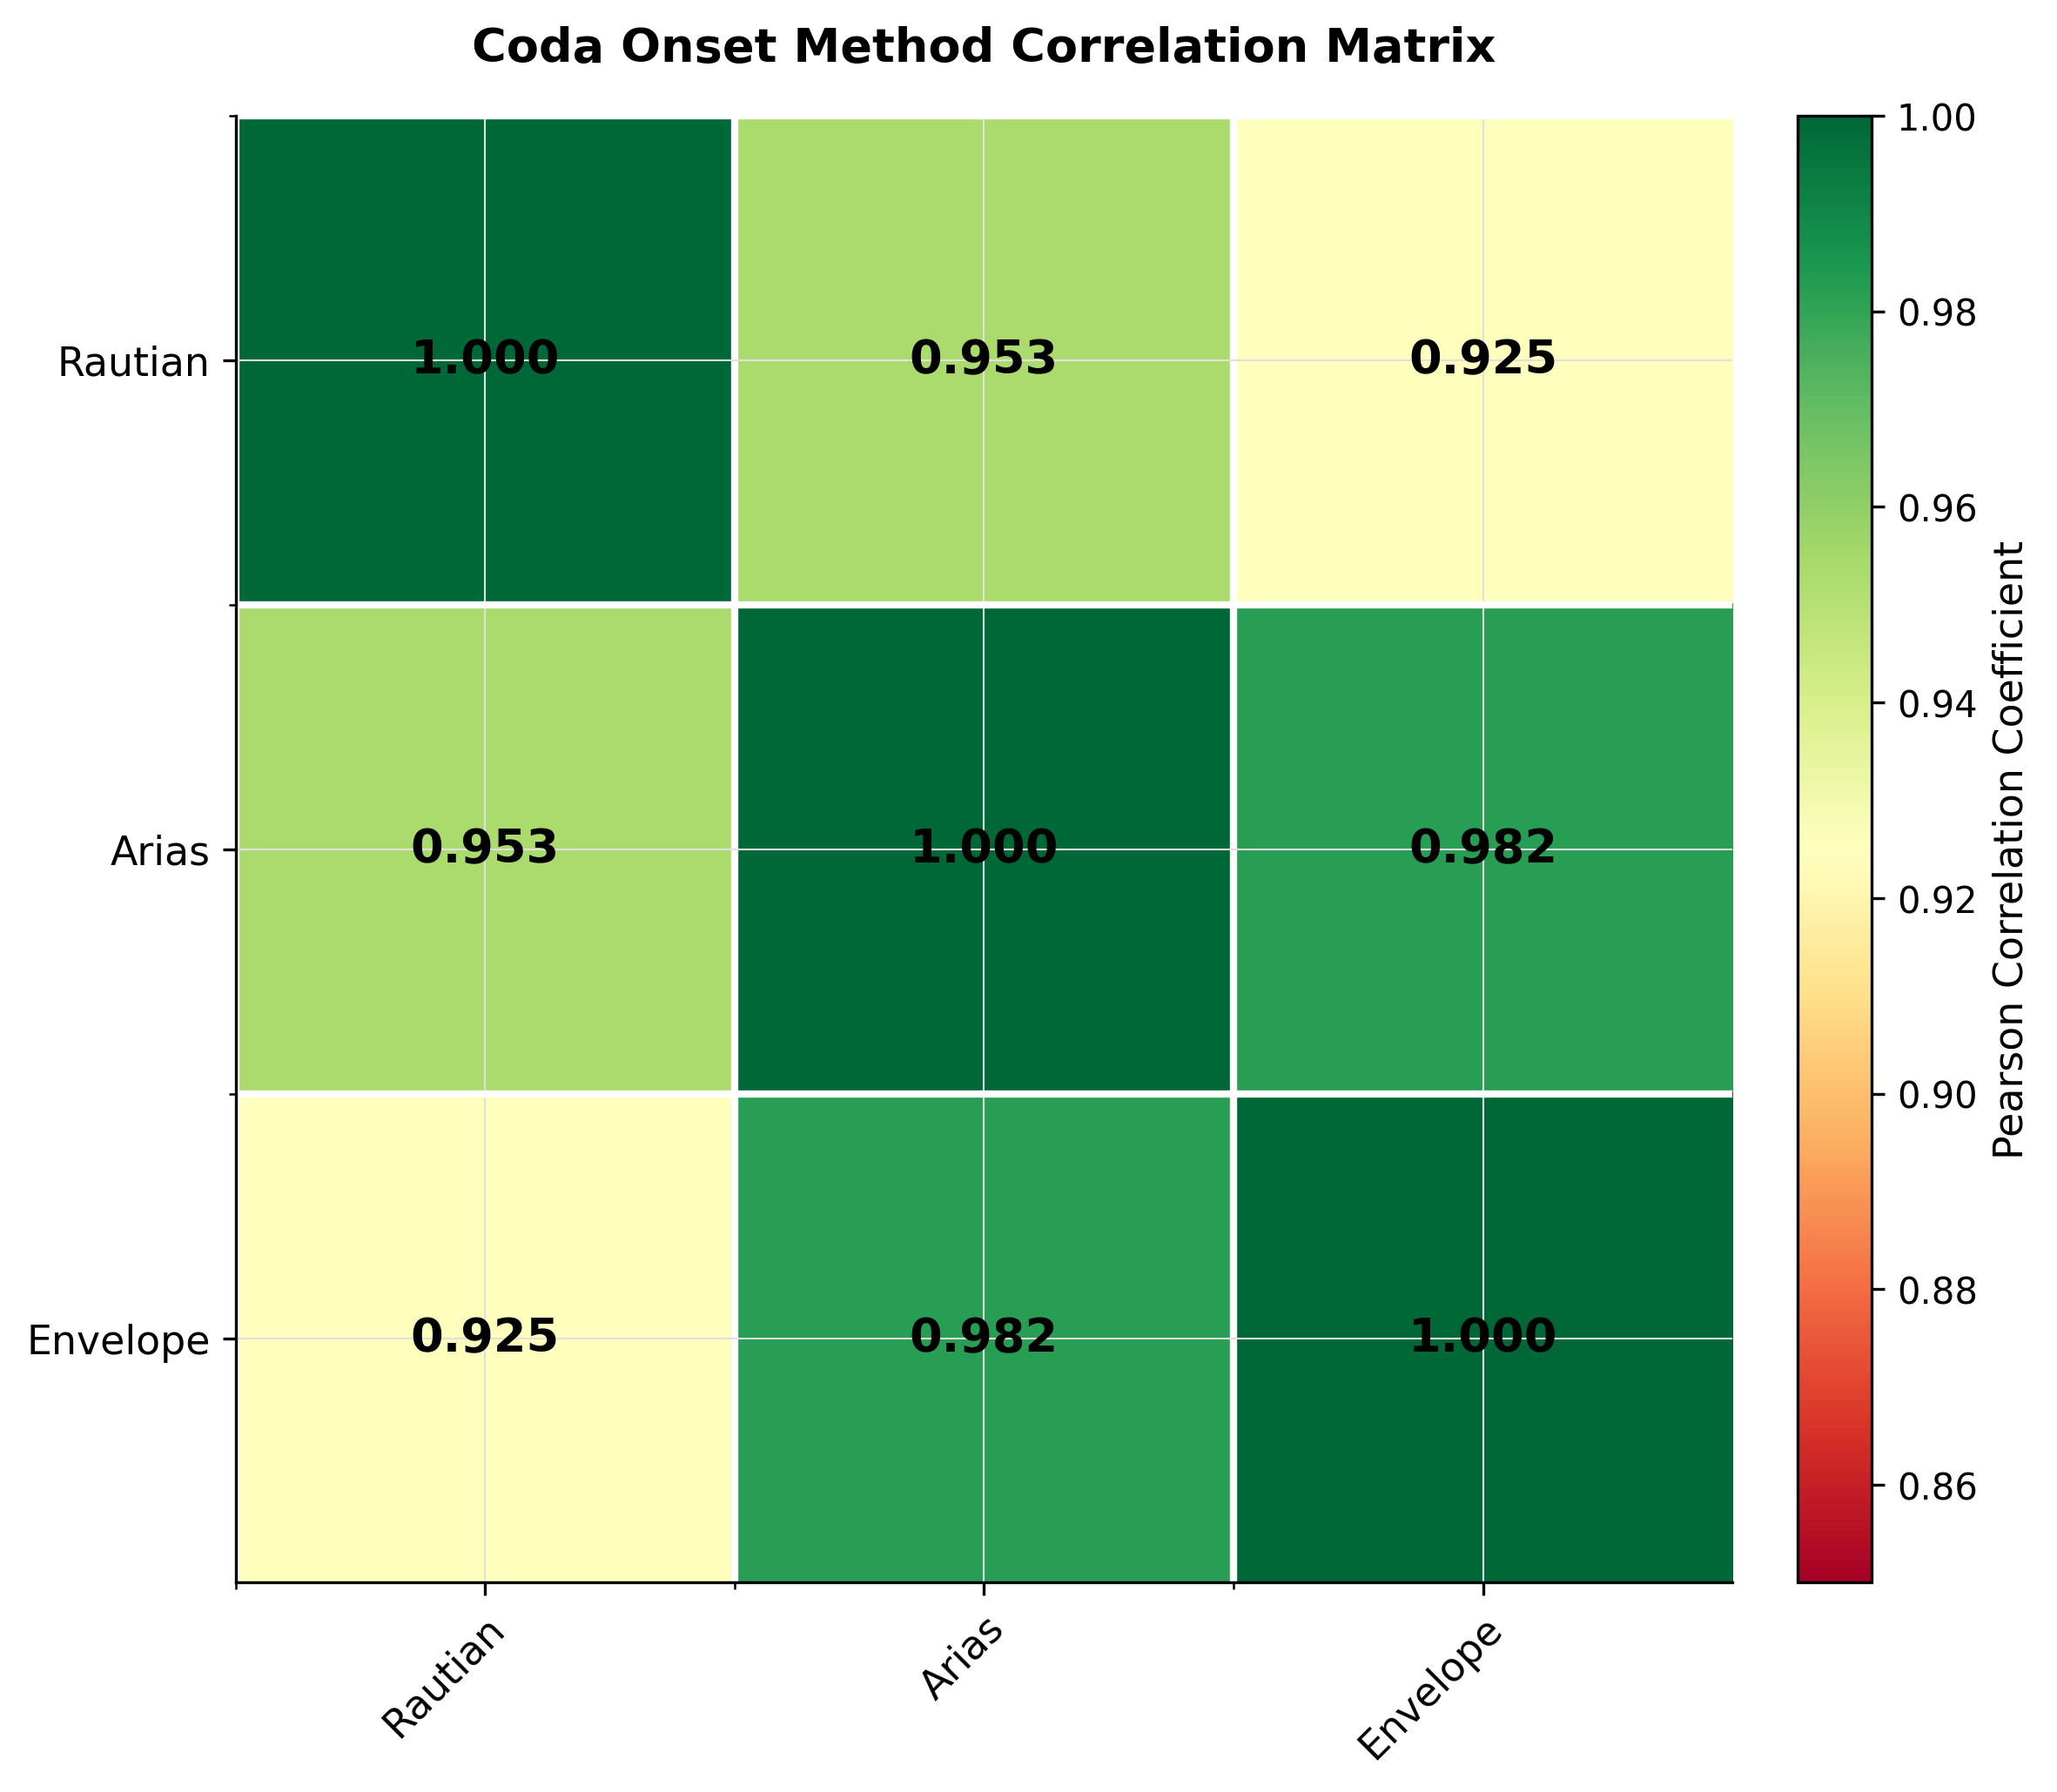
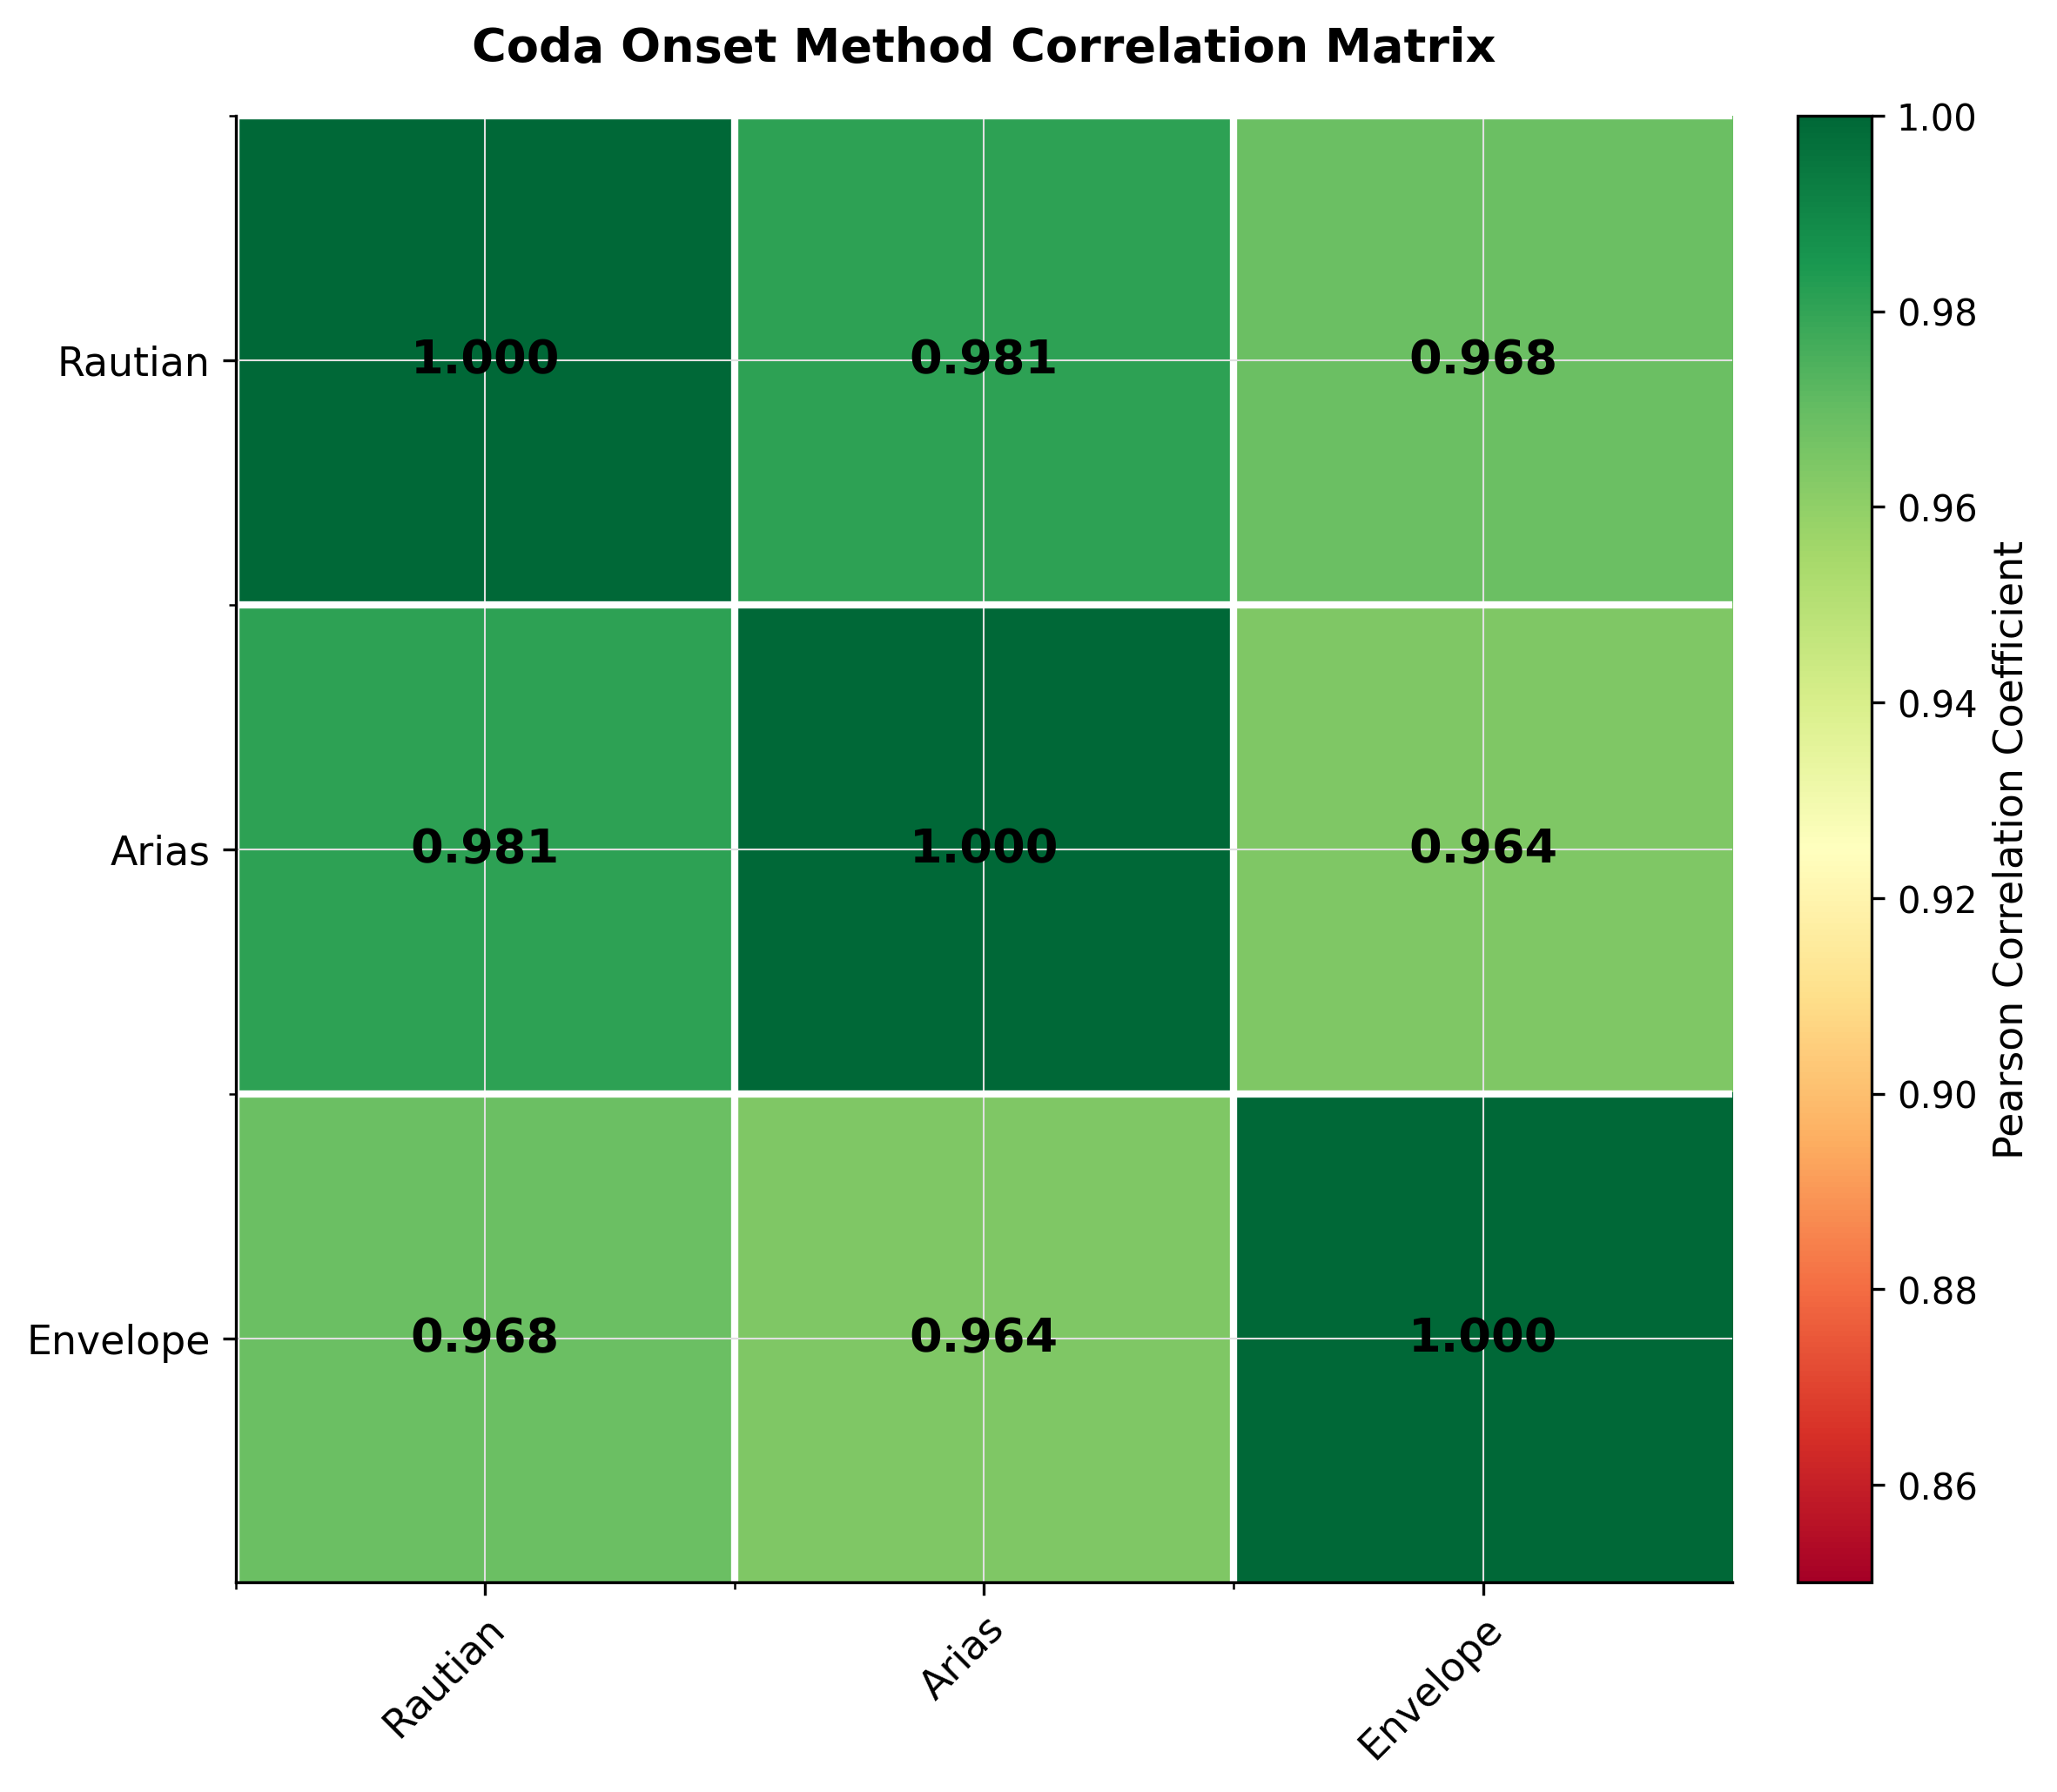
.

diff --git a/src/visualization/plots_segmentation.py b/src/visualization/plots_segmentation.py
@@ -47,15 +47,15 @@ def display_theoretical_arrivals_table(df_stations, n_rows=10):
         'EPICENTRAL_DISTANCE_KM',
         'vp_crust', 
         'vs_crust',
-        't_p_theo', 
-        't_s_theo'
+        't_p_theo_seconds', 
+        't_s_theo_seconds'
     ]].copy()
     
     # Round for readability
     table['vp_crust'] = table['vp_crust'].round(2)
     table['vs_crust'] = table['vs_crust'].round(2)
-    table['t_p_theo'] = table['t_p_theo'].round(2)
-    table['t_s_theo'] = table['t_s_theo'].round(2)
+    table['t_p_theo_seconds'] = table['t_p_theo_seconds'].round(2)
+    table['t_s_theo_seconds'] = table['t_s_theo_seconds'].round(2)
     
     # Sort by distance
     table = table.sort_values('EPICENTRAL_DISTANCE_KM')
@@ -65,8 +65,8 @@ def display_theoretical_arrivals_table(df_stations, n_rows=10):
     print("=" * 70)
     print(f"\nNumber of stations: {len(table)}")
     print(f"\nDistance range: {table['EPICENTRAL_DISTANCE_KM'].min():.1f} - {table['EPICENTRAL_DISTANCE_KM'].max():.1f} km")
-    print(f"P-wave arrival range: {table['t_p_theo'].min():.1f} - {table['t_p_theo'].max():.1f} s")
-    print(f"S-wave arrival range: {table['t_s_theo'].min():.1f} - {table['t_s_theo'].max():.1f} s")
+    print(f"P-wave arrival range: {table['t_p_theo_seconds'].min():.1f} - {table['t_p_theo_seconds'].max():.1f} s")
+    print(f"S-wave arrival range: {table['t_s_theo_seconds'].min():.1f} - {table['t_s_theo_seconds'].max():.1f} s")
     print(f"\nMedian crustal velocities:")
     print(f"  v_P = {table['vp_crust'].median():.2f} km/s")
     print(f"  v_S = {table['vs_crust'].median():.2f} km/s")
@@ -94,7 +94,6 @@ def plot_apparent_vs_crustal_velocities(df_meta_stations, figsize=(16, 6)):
     -------
     fig : matplotlib.figure.Figure
     """
-    import matplotlib.pyplot as plt
     
     # Calculate apparent velocities
     df = df_meta_stations.copy()
@@ -161,7 +160,6 @@ def plot_crustal_velocities_vs_distance(df_meta_stations, figsize=(16, 6), outpu
     -------
     fig : matplotlib.figure.Figure
     """
-    import matplotlib.pyplot as plt
     
     df_sorted = df_meta_stations.sort_values('EPICENTRAL_DISTANCE_KM')
     
@@ -238,8 +236,8 @@ def plot_theoretical_arrivals(df_stations, figsize=(12, 6), save_path=None):
     df_stations : pd.DataFrame
         Station metadata with columns:
         - EPICENTRAL_DISTANCE_KM
-        - t_p_theo
-        - t_s_theo
+        - t_p_theo_seconds
+        - t_s_theo_seconds
         - vp_crust
         - vs_crust
     figsize : tuple, optional
@@ -260,8 +258,8 @@ def plot_theoretical_arrivals(df_stations, figsize=(12, 6), save_path=None):
     
     # Extract data
     distance = df_stations['EPICENTRAL_DISTANCE_KM']
-    t_p = df_stations['t_p_theo']
-    t_s = df_stations['t_s_theo']
+    t_p = df_stations['t_p_theo_seconds']
+    t_s = df_stations['t_s_theo_seconds']
     
     # Plot P-wave
     ax.scatter(distance, t_p, 
@@ -348,7 +346,7 @@ def plot_onset_detection_results(signals_dict, df_results,
     df_results : pd.DataFrame
         Results from detect_onsets_ar_windowed() with columns:
         - STATION_CODE
-        - t_p_theo, t_s_theo
+        - t_p_theo_seconds, t_s_theo_seconds
         - t_p_detected, t_s_detected
         - p_residual, s_residual
         - p_detection_success, s_detection_success
@@ -464,13 +462,13 @@ def plot_onset_detection_results(signals_dict, df_results,
                                   label='S window' if ax == axes[0] else '', zorder=0)
             
             # Plot theoretical arrivals (dashed)
-            if not pd.isna(station_result['t_p_theo']):
-                ax.axvline(station_result['t_p_theo'], color='blue', 
+            if not pd.isna(station_result['t_p_theo_seconds']):
+                ax.axvline(station_result['t_p_theo_seconds'], color='blue', 
                           linestyle='--', linewidth=1.5, alpha=0.6, 
                           label='P theo' if ax == axes[0] else '', zorder=2)
             
-            if not pd.isna(station_result['t_s_theo']):
-                ax.axvline(station_result['t_s_theo'], color='red', 
+            if not pd.isna(station_result['t_s_theo_seconds']):
+                ax.axvline(station_result['t_s_theo_seconds'], color='red', 
                           linestyle='--', linewidth=1.5, alpha=0.6,
                           label='S theo' if ax == axes[0] else '', zorder=2)
             

diff --git a/src/segmentation/search_windows.py b/src/segmentation/search_windows.py
@@ -367,8 +367,8 @@ def add_theoretical_arrivals(df_stations,
     print(f"Epicentral distance range: {epicentral_dist.min():.2f} - {epicentral_dist.max():.2f} km")
     print(f"Hypocentral distance range: {hypocentral_dist.min():.2f} - {hypocentral_dist.max():.2f} km")
     print(f"Origin time range: {origin_time.min():.2f} - {origin_time.max():.2f} s")
-    print(f"t_P range: {df_result['t_p_theo'].min():.2f} - {df_result['t_p_theo'].max():.2f} s")
-    print(f"t_S range: {df_result['t_s_theo'].min():.2f} - {df_result['t_s_theo'].max():.2f} s")
+    print(f"t_P range: {df_result['t_p_theo_seconds'].min():.2f} - {df_result['t_p_theo_seconds'].max():.2f} s")
+    print(f"t_S range: {df_result['t_s_theo_seconds'].min():.2f} - {df_result['t_s_theo_seconds'].max():.2f} s")
     
     # Quantify the difference caused by depth correction
     distance_diff = hypocentral_dist - epicentral_dist